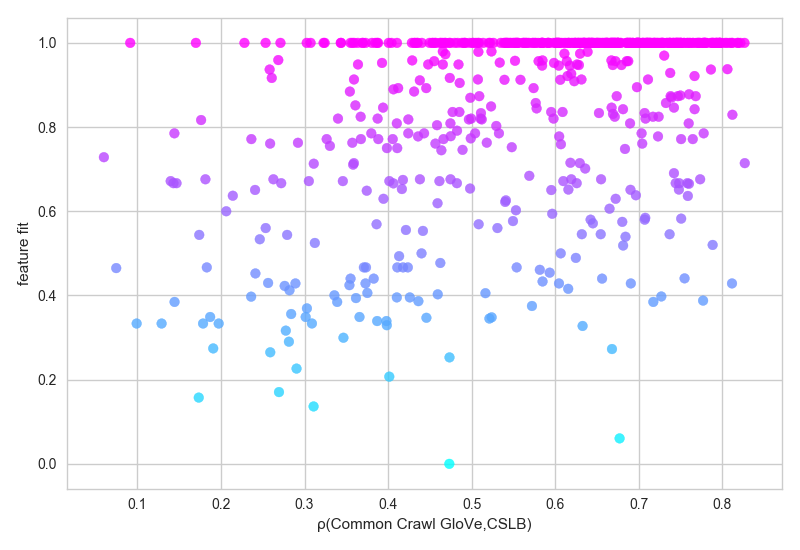
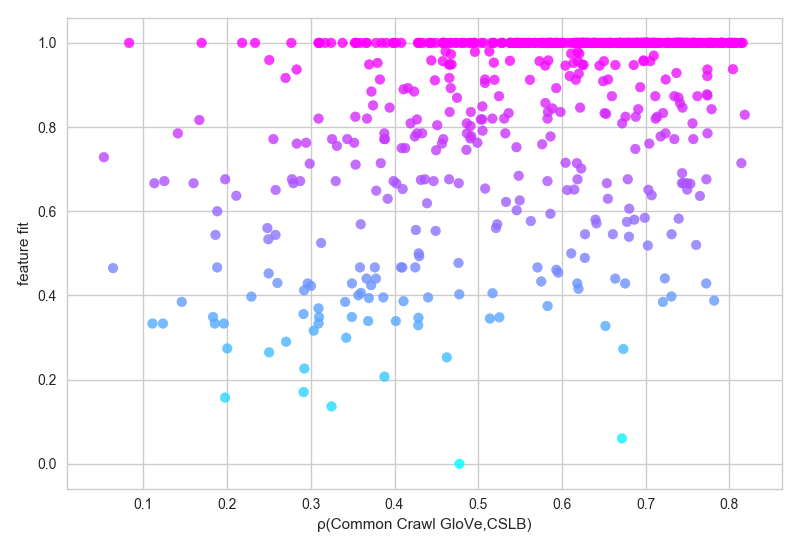
pngs

diff --git a/subgraphs/feature_fit_comp.py b/subgraphs/feature_fit_comp.py
@@ -39,8 +39,8 @@ def main():
     sort_feats = sorted(set(zs))
     # colors_dict = dict(zip(sort_feats, ["Plum", "DarkOrange",
     #     "SkyBlue", "YellowGreen", "IndianRed"]))
-    colors_dict = dict(zip(sort_feats, ["DarkRed", "DarkRed",
-        "DarkRed", "DarkRed", "DarkRed"]))
+    colors_dict = dict(zip(sort_feats, ["LightBlue", "LightBlue",
+        "LightBlue", "LightBlue", "LightBlue"]))
     print(colors_dict)
     colors = [colors_dict[zs[c]] for c in range(len(zs))]
 
@@ -48,16 +48,17 @@ def main():
     xs += np.random.randn(len(xs)) * 0.001
     ys += np.random.randn(len(ys)) * 0.001
     fig = plt.figure()
+    plt.rcParams.update({'font.size': 12})
     ax = fig.add_subplot(111)
     axes = plt.gca()
     axes.set_xlim([-0.05,1.05])
     axes.set_ylim([-0.05,1.05])
     ax.set_xlabel(SOURCE1 + " feature fit")
     ax.set_ylabel(FORMAL_SOURCE2 + " feature fit")
-    ax.scatter(xs, ys, color=colors)
+    ax.scatter(xs, ys, color=colors, linewidth=0.0)
     slope, intercept, r_value, p_value, std_err = stats.linregress(xs, ys)
     print("slope", slope, "r", r_value)
-    plt.plot(xs, slope*xs + intercept, '-', color="IndianRed", linewidth=2.0)
+    plt.plot(xs, slope*xs + intercept, '-', color="DarkBlue", linewidth=2.0)
     plt.tight_layout()
     fig_path = os.path.join(GRAPH_DIR, "%s-%s.png" % (SOURCE1, SOURCE2))
     plt.savefig(fig_path, bbox_inches='tight')
